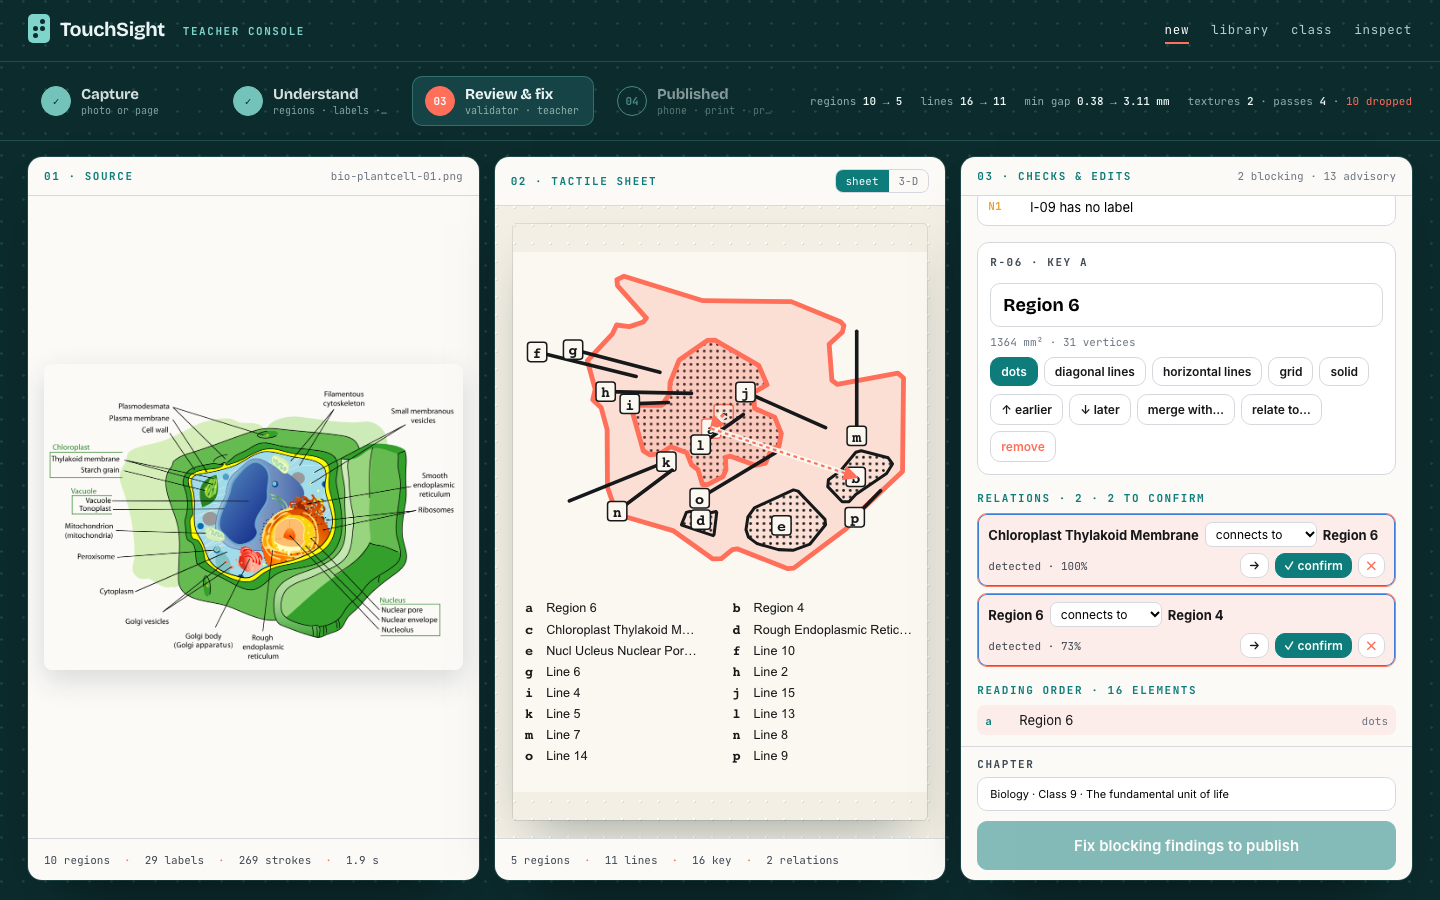
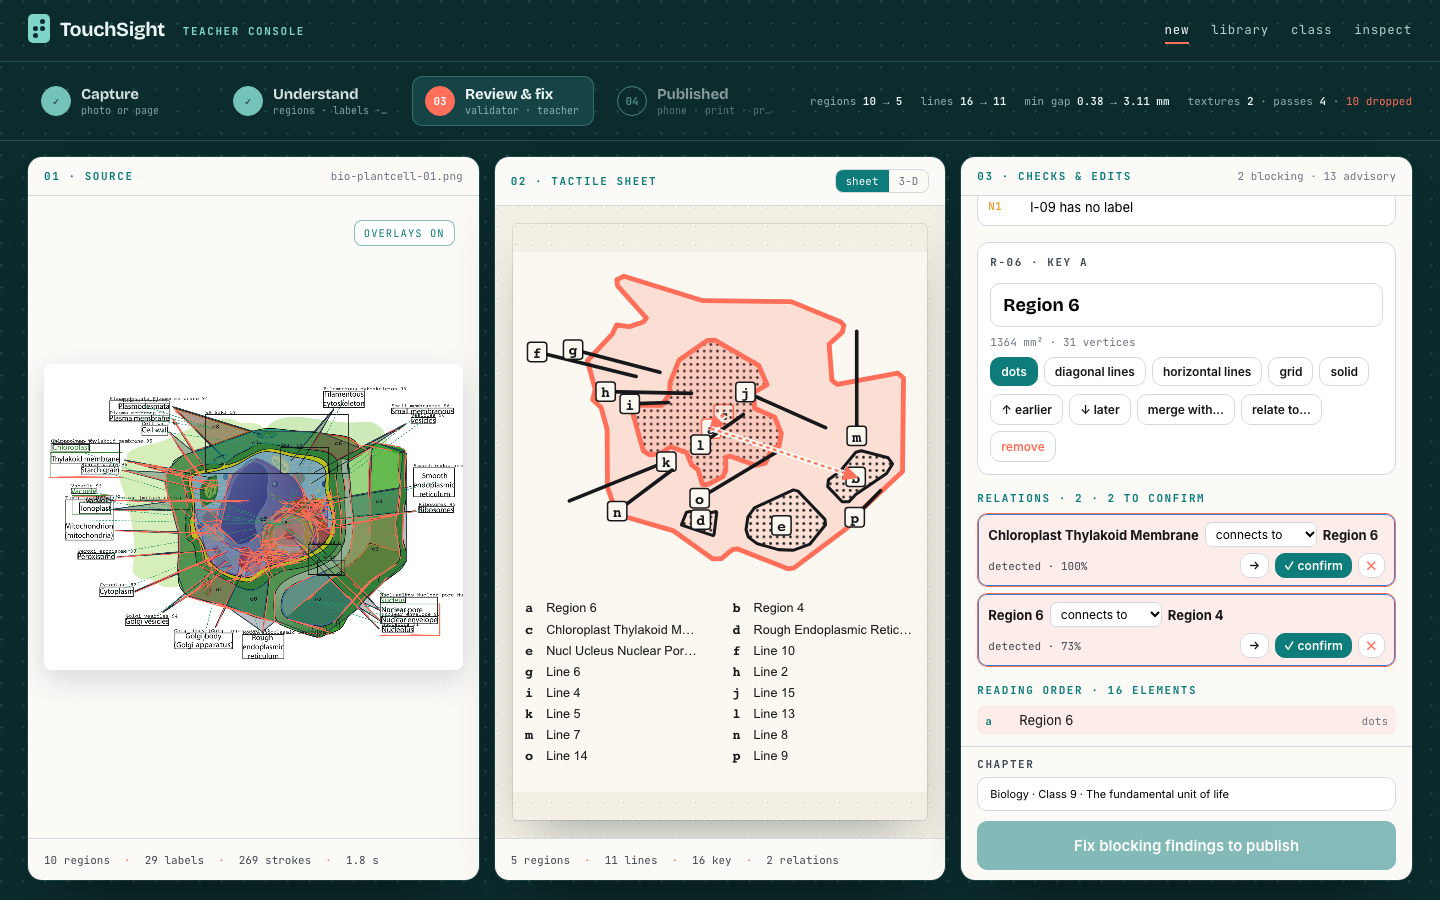
Understanding drawn over the photo, fitted relief, high-contrast mode

Changed region(s): [[0.0312, 0.4356, 0.3125, 0.7467], [0.25, 0.2489, 0.3125, 0.28], [0.0625, 0.6533, 0.0938, 0.6844]]

diff --git a/app/src/routes/teacher/Workbench.tsx b/app/src/routes/teacher/Workbench.tsx
@@ -1,6 +1,7 @@
 import { useEffect, useMemo, useRef, useState } from 'react'
 import { useNavigate, useParams } from 'react-router-dom'
-import { understand, draftTdm } from '../../pipeline/understand'
+import { understand, draftTdm, type Understanding } from '../../pipeline/understand'
+import { drawUnderstanding, SHOW_ALL } from '../../pipeline/overlay'
 import { simplify, type SimplifyReport } from '../../tdm/simplify'
 import { validate } from '../../tdm/validate'
 import { rename, remove, merge, setTexture, moveInOrder, markReviewed, addRelation, confirmRelation, removeRelation, setRelation } from '../../tdm/edit'
@@ -33,6 +34,10 @@ export function Workbench() {
   const [found, setFound] = useState<{ regions: number; labels: number; strokes: number; ms: number } | null>(null)
   const [phones, setPhones] = useState(0)
   const [view3d, setView3d] = useState(false)
+  const [u, setU] = useState<Understanding | null>(null)
+  const [overlay, setOverlay] = useState(true)
+  const [reveal, setReveal] = useState(1)
+  const overlayRef = useRef<HTMLCanvasElement>(null)
   useEffect(() => { if (step !== 'published') return; const t = setInterval(() => setPhones(classroom.phones), 600); return () => clearInterval(t) }, [step])
   const fileRef = useRef<HTMLInputElement>(null)
 
@@ -53,6 +58,10 @@ export function Workbench() {
     try {
       const u = await understand(file, setStage)
       setFound({ regions: u.regions.length, labels: u.labels.length, strokes: u.segments.length, ms: u.timings.total })
+      setU(u); setOverlay(true)
+      // what was read, drawn in over the photo while the solver works: regions, then labels, then strokes and links
+      setStage('what was read')
+      await new Promise<void>((done) => { const t0 = performance.now(); const tick = () => { const k = Math.min(1, (performance.now() - t0) / 1400); setReveal(k); if (k < 1) requestAnimationFrame(tick); else done() }; requestAnimationFrame(tick) })
       const id = (title || file.name.replace(/\.[^.]+$/, '')).toLowerCase().replace(/[^a-z0-9]+/g, '-').replace(/^-|-$/g, '') || `diagram-${Date.now()}`
       const { tdm: draft } = draftTdm(u, { id, title: title || file.name.replace(/\.[^.]+$/, ''), subject: chapter.split(' ')[0] || 'general', sourceKind: 'photo', file: file.name })
       setStage('redesigning for touch')
@@ -101,7 +110,13 @@ export function Workbench() {
   const STEPS: [Step, string, string][] = [['capture', 'Capture', 'photo or page'], ['understand', 'Understand', 'regions · labels · strokes'], ['review', 'Review & fix', 'validator · teacher'], ['published', 'Published', 'phone · print · projector']]
   const stepIdx = STEPS.findIndex((x) => x[0] === step)
   const blockingSel = highlight.length ? [...findings.blocking, ...findings.advisory].find((x) => selected && x.ids.includes(selected))?.at ?? null : null
-  const reset = () => { setStep('capture'); setTdm(null); setFile(null); setReport(null); setSelected(null); setFound(null); setImgUrl(null) }
+  const reset = () => { setStep('capture'); setTdm(null); setFile(null); setReport(null); setSelected(null); setFound(null); setImgUrl(null); setU(null) }
+  useEffect(() => {
+    const c = overlayRef.current
+    if (!c || !u) return
+    if (c.width !== u.prepared.width) { c.width = u.prepared.width; c.height = u.prepared.height }
+    drawUnderstanding(c.getContext('2d')!, u, overlay ? SHOW_ALL : { regions: false, labels: false, segments: false, links: false }, reveal)
+  }, [u, overlay, reveal, step])
 
   return (
     <div className="wb">
@@ -149,9 +164,10 @@ export function Workbench() {
                 <button className="btn primary wb-go" disabled={!file} onClick={run}>Understand this diagram →</button>
               </div>
             ) : (
-              <div className={`wb-photo ${step === 'understand' ? 'scanning' : ''}`}>
-                {imgUrl || file ? <img src={imgUrl ?? URL.createObjectURL(file!)} alt="" /> : <div className="wb-ghost mono">no source image stored</div>}
-                {step === 'understand' && <div className="wb-scan" aria-hidden />}
+              <div className={`wb-photo ${step === 'understand' && !u ? 'scanning' : ''}`}>
+                {u ? <canvas ref={overlayRef} className="wb-overlay" /> : imgUrl || file ? <img src={imgUrl ?? URL.createObjectURL(file!)} alt="" /> : <div className="wb-ghost mono">no source image stored</div>}
+                {step === 'understand' && !u && <div className="wb-scan" aria-hidden />}
+                {u && step !== 'understand' && <button className={`wb-ovl mono ${overlay ? 'on' : ''}`} onClick={() => setOverlay((v) => !v)}>{overlay ? 'overlays on' : 'overlays off'}</button>}
               </div>
             )}
           </div>

diff --git a/app/src/pipeline/overlay.ts b/app/src/pipeline/overlay.ts
@@ -1,0 +1,25 @@
+import type { Understanding } from './understand'
+
+/** What the pipeline read, drawn over the photo. Stages reveal in order so a watcher sees regions, then labels, then strokes, then which label names which region. */
+export const PALETTE = ['#0e7c7b', '#ff6f59', '#3d7dd8', '#e9a23b', '#2e9e6a', '#8e44ad', '#c0392b', '#16a085', '#d35400', '#2c3e50']
+export type OverlayShow = { regions: boolean; labels: boolean; segments: boolean; links: boolean }
+export const SHOW_ALL: OverlayShow = { regions: true, labels: true, segments: true, links: true }
+
+export function drawUnderstanding(ctx: CanvasRenderingContext2D, u: Understanding, show: OverlayShow, progress = 1) {
+  const { prepared } = u
+  ctx.clearRect(0, 0, prepared.width, prepared.height)
+  ctx.drawImage(prepared.canvas, 0, 0)
+  const scale = Math.max(1, prepared.width / 900)
+  ctx.lineWidth = 2 * scale
+  if (show.regions) u.regions.slice(0, Math.ceil(u.regions.length * progress)).forEach((r, i) => {
+    ctx.beginPath(); r.polygon.forEach((p, k) => (k ? ctx.lineTo(p[0], p[1]) : ctx.moveTo(p[0], p[1]))); ctx.closePath()
+    ctx.fillStyle = PALETTE[i % PALETTE.length] + '55'; ctx.fill()
+    ctx.strokeStyle = PALETTE[i % PALETTE.length]; ctx.stroke()
+    ctx.fillStyle = '#000'; ctx.font = `bold ${13 * scale}px JetBrains Mono, monospace`; ctx.fillText(r.id, r.centroid[0], r.centroid[1])
+  })
+  if (show.segments) { ctx.strokeStyle = '#ff6f59'; ctx.lineWidth = 2 * scale; u.segments.slice(0, Math.ceil(u.segments.length * progress)).forEach((s) => { ctx.beginPath(); ctx.moveTo(s.a[0], s.a[1]); ctx.lineTo(s.b[0], s.b[1]); ctx.stroke() }) }
+  if (show.labels) { ctx.strokeStyle = '#17181a'; ctx.lineWidth = 1.5 * scale; u.labels.slice(0, Math.ceil(u.labels.length * progress)).forEach((l) => { ctx.strokeRect(l.bbox.x, l.bbox.y, l.bbox.w, l.bbox.h); ctx.fillStyle = '#17181a'; ctx.font = `${11 * scale}px JetBrains Mono, monospace`; ctx.fillText(`${l.text} ${Math.round(l.confidence * 100)}`, l.bbox.x, l.bbox.y - 3) }) }
+  if (show.links) { ctx.strokeStyle = '#2e9e6a'; ctx.setLineDash([4 * scale, 3 * scale]); ctx.lineWidth = 1.5 * scale
+    u.associations.slice(0, Math.ceil(u.associations.length * progress)).forEach((a) => { if (!a.regionId) return; const l = u.labels.find((x) => x.id === a.labelId)!; const r = u.regions.find((x) => x.id === a.regionId)!; ctx.beginPath(); ctx.moveTo(l.centre[0], l.centre[1]); ctx.lineTo(r.centroid[0], r.centroid[1]); ctx.stroke() })
+    ctx.setLineDash([]) }
+}

diff --git a/app/src/routes/teacher/Understand.tsx b/app/src/routes/teacher/Understand.tsx
@@ -2,8 +2,8 @@ import { useEffect, useRef, useState } from 'react'
 import { understand, draftTdm, type Understanding } from '../../pipeline/understand'
 import { serializeTdm } from '../../tdm/io'
 import { saveDiagram, saveImage } from '../../store/db'
+import { drawUnderstanding } from '../../pipeline/overlay'
 
-const PALETTE = ['#0e7c7b', '#ff6f59', '#3d7dd8', '#e9a23b', '#2e9e6a', '#8e44ad', '#c0392b', '#16a085', '#d35400', '#2c3e50']
 
 /** Stage 1 inspection: run the pipeline on an image and draw what it found. */
 export function Understand() {
@@ -29,22 +29,8 @@ export function Understand() {
   useEffect(() => {
     const c = canvasRef.current
     if (!c || !u) return
-    const { prepared } = u
-    c.width = prepared.width; c.height = prepared.height
-    const ctx = c.getContext('2d')!
-    ctx.drawImage(prepared.canvas, 0, 0)
-    ctx.lineWidth = 2
-    if (show.regions) u.regions.forEach((r, i) => {
-      ctx.beginPath(); r.polygon.forEach((p, k) => (k ? ctx.lineTo(p[0], p[1]) : ctx.moveTo(p[0], p[1]))); ctx.closePath()
-      ctx.fillStyle = PALETTE[i % PALETTE.length] + '55'; ctx.fill()
-      ctx.strokeStyle = PALETTE[i % PALETTE.length]; ctx.stroke()
-      ctx.fillStyle = '#000'; ctx.font = 'bold 13px monospace'; ctx.fillText(r.id, r.centroid[0], r.centroid[1])
-    })
-    if (show.segments) { ctx.strokeStyle = '#ff6f59'; ctx.lineWidth = 2; u.segments.forEach((s) => { ctx.beginPath(); ctx.moveTo(s.a[0], s.a[1]); ctx.lineTo(s.b[0], s.b[1]); ctx.stroke() }) }
-    if (show.labels) { ctx.strokeStyle = '#17181a'; ctx.lineWidth = 1.5; u.labels.forEach((l) => { ctx.strokeRect(l.bbox.x, l.bbox.y, l.bbox.w, l.bbox.h); ctx.fillStyle = '#17181a'; ctx.font = '11px monospace'; ctx.fillText(`${l.text} ${Math.round(l.confidence * 100)}`, l.bbox.x, l.bbox.y - 3) }) }
-    if (show.links) { ctx.strokeStyle = '#2e9e6a'; ctx.setLineDash([4, 3]); ctx.lineWidth = 1.5
-      u.associations.forEach((a) => { if (!a.regionId) return; const l = u.labels.find((x) => x.id === a.labelId)!; const r = u.regions.find((x) => x.id === a.regionId)!; ctx.beginPath(); ctx.moveTo(l.centre[0], l.centre[1]); ctx.lineTo(r.centroid[0], r.centroid[1]); ctx.stroke() })
-      ctx.setLineDash([]) }
+    c.width = u.prepared.width; c.height = u.prepared.height
+    drawUnderstanding(c.getContext('2d')!, u, show)
   }, [u, show])
 
   async function saveDraft() {

diff --git a/app/src/components/ReliefViewer.tsx b/app/src/components/ReliefViewer.tsx
@@ -30,7 +30,9 @@ export function ReliefViewer({ tdm, braille, className = '', autoRotate = true, 
       const w = el.clientWidth || 600, h = el.clientHeight || 420
       const cam = new THREE.PerspectiveCamera(32, w / h, 1, 2000)
       const span = Math.max(size.x, size.y)
-      cam.position.set(span * 0.55, -span * 0.95, span * 0.9); cam.up.set(0, 0, 1); cam.lookAt(0, 0, 0)
+      const fit = Math.max(size.y, size.x / cam.aspect) * 1.15
+      const dist = (fit / 2) / Math.tan((cam.fov * Math.PI) / 360)
+      cam.position.copy(new THREE.Vector3(0.42, -0.78, 0.62).normalize().multiplyScalar(dist)); cam.up.set(0, 0, 1); cam.lookAt(0, 0, 0)
       const renderer = new THREE.WebGLRenderer({ antialias: true, alpha: true })
       renderer.setPixelRatio(Math.min(2, window.devicePixelRatio || 1)); renderer.setSize(w, h); renderer.shadowMap.enabled = true
       el.appendChild(renderer.domElement)
@@ -47,7 +49,7 @@ export function ReliefViewer({ tdm, braille, className = '', autoRotate = true, 
       const rim = new THREE.DirectionalLight(0x7fd4cb, 0.5); rim.position.set(span, span, span * 0.3); scene.add(rim)
 
       const controls = new OrbitControls(cam, renderer.domElement)
-      controls.enableDamping = true; controls.autoRotate = autoRotate; controls.autoRotateSpeed = 1.2; controls.maxPolarAngle = Math.PI * 0.49; controls.minDistance = span * 0.5; controls.maxDistance = span * 3
+      controls.enableDamping = true; controls.autoRotate = autoRotate; controls.autoRotateSpeed = 1.2; controls.maxPolarAngle = Math.PI * 0.49; controls.minDistance = span * 0.4; controls.maxDistance = dist * 2.2
       const onResize = () => { const w2 = el.clientWidth, h2 = el.clientHeight; if (!w2 || !h2) return; cam.aspect = w2 / h2; cam.updateProjectionMatrix(); renderer.setSize(w2, h2) }
       const ro = new ResizeObserver(onResize); ro.observe(el)
       const loop = () => { if (!alive) return; controls.update(); renderer.render(scene, cam); raf = requestAnimationFrame(loop) }

diff --git a/app/src/routes/student/Library.tsx b/app/src/routes/student/Library.tsx
@@ -15,6 +15,7 @@ import { classroom, studentProfile, setStudentProfile, type Incoming } from '../
 import { useTouchToAct, introSeen, markIntroSeen, speakFirstEnabled, setSpeakFirst } from '../../student/a11y'
 import { stopSpeech } from '../../device/speech'
 import { sound } from '../../device/sound'
+import { contrastEnabled, setContrast } from '../../student/a11y'
 
 type Score = { found: number; asked: number }
 
@@ -36,6 +37,7 @@ export function StudentLibrary() {
   const [intro, setIntro] = useState<'hidden' | 'waiting' | 'spoken'>(() => (introSeen() ? 'hidden' : 'waiting'))
   const [speakFirst, setSF] = useState(speakFirstEnabled)
   const [snd, setSnd] = useState(sound.state.on)
+  const [hc, setHc] = useState(contrastEnabled)
   const [, bump] = useState(0)
   const say = (text: string) => { stopSpeech(); speak(text, lang) }
   useEffect(() => { const t = setInterval(() => setLink(classroom.state), 700); return () => clearInterval(t) }, [])
@@ -160,6 +162,7 @@ export function StudentLibrary() {
       <div className="st-settings" role="group">
         <button className={speakFirst ? 'on' : ''} aria-pressed={speakFirst} onClick={() => { const v = !speakFirst; setSpeakFirst(v); setSF(v); bump((n) => n + 1); say(v ? s.speakFirstOn : s.speakFirstOff) }}>{s.speakFirst}</button>
         <button className={snd ? 'on' : ''} aria-pressed={snd} onClick={() => { const v = !snd; sound.setOn(v); setSnd(v); say(v ? s.soundOn : s.soundOff) }}>{s.sound}</button>
+        <button className={hc ? 'on' : ''} aria-pressed={hc} onClick={() => { const v = !hc; setContrast(v); setHc(v); say(v ? s.contrastOn : s.contrastOff) }}>{s.contrast}</button>
       </div>
 
       <section className="st-section">

diff --git a/app/src/routes/student/student.css b/app/src/routes/student/student.css
@@ -87,3 +87,12 @@
 .st-modes button.armed, .st-actions button.armed { outline: 3px solid var(--coral); outline-offset: 2px; }
 .st-explore { touch-action: pan-y; }
 .st-thumb svg { pointer-events: none; }
+
+/* low vision: high contrast, larger type, thicker lines */
+html.hc .st { background: #000; color: #ffe600; font-size: 112%; }
+html.hc .st-card, html.hc .st-key li, html.hc .st-pick-card, html.hc .st-me, html.hc .st-join, html.hc .st-settings button, html.hc .st-actions button, html.hc .st-btn-link, html.hc .st-modes button, html.hc .st-langs { background: #000; border-color: #ffe600; color: #ffe600; }
+html.hc .st-langs button.on, html.hc .st-modes button.on, html.hc .st-settings button.on, html.hc .st-actions button.primary, html.hc .st-pick-card.armed { background: #ffe600; color: #000; border-color: #ffe600; }
+html.hc .kicker, html.hc .st-caption, html.hc .st-card-body .mono, html.hc .st-key .feel, html.hc .st-key .ref, html.hc .st-title .mono, html.hc .st-pick-q, html.hc .st-empty { color: #fff; }
+html.hc .st-now { font-size: 30px; color: #ffe600; } html.hc .st-card-body b { font-size: 19px; } html.hc .st-key .name { font-size: 19px; } html.hc .st-key .cells { font-size: 30px; }
+html.hc .st-canvas { background: #fff; outline: 3px solid #ffe600; outline-offset: -3px; } html.hc .st-canvas svg { filter: contrast(1.35); } html.hc .st-canvas svg path, html.hc .st-canvas svg text { stroke-width: 1.8px; }
+html.hc .st-card.armed, html.hc .st-import.armed, html.hc .st-modes button.armed, html.hc .st-actions button.armed { outline-color: #fff; }

diff --git a/app/src/student/a11y.ts b/app/src/student/a11y.ts
@@ -21,6 +21,10 @@ export const lastPointerType = () => lastPointer
 
 export function speakFirstEnabled(): boolean { try { return localStorage.getItem(SPEAK_FIRST_KEY) !== 'off' } catch { return true } }
 export function setSpeakFirst(on: boolean) { try { localStorage.setItem(SPEAK_FIRST_KEY, on ? 'on' : 'off') } catch { /* ignore */ } }
+const CONTRAST_KEY = 'touchsight-contrast'
+export function contrastEnabled(): boolean { try { return localStorage.getItem(CONTRAST_KEY) === 'on' } catch { return false } }
+export function setContrast(on: boolean) { try { localStorage.setItem(CONTRAST_KEY, on ? 'on' : 'off') } catch { /* ignore */ } document.documentElement.classList.toggle('hc', on) }
+if (typeof document !== 'undefined' && contrastEnabled()) document.documentElement.classList.add('hc')
 export function introSeen(): boolean { try { return localStorage.getItem(INTRO_KEY) === '1' } catch { return true } }
 export function markIntroSeen() { try { localStorage.setItem(INTRO_KEY, '1') } catch { /* ignore */ } }
 

diff --git a/app/src/routes/teacher/teacher.css b/app/src/routes/teacher/teacher.css
@@ -172,3 +172,7 @@
 .rv { display: grid; grid-template-rows: minmax(0, 1fr) auto; height: 100%; min-height: 0; }
 .rv-stage { min-height: 0; cursor: grab; } .rv-stage canvas { display: block; }
 .rv-cap { display: flex; justify-content: space-between; gap: 12px; padding: 8px 14px; font-size: 10.5px; color: #8fb0ae; border-top: 1px solid rgba(127,212,203,.2); background: rgba(12,43,45,.6); }
+
+.wb-overlay { max-width: 100%; max-height: 100%; width: auto; height: auto; border-radius: 8px; box-shadow: 0 10px 30px rgba(12,43,45,.15); }
+.wb-ovl { position: absolute; right: 24px; top: 24px; border: 1px solid var(--line); background: #fff; color: var(--muted); font-size: 10.5px; letter-spacing: .1em; text-transform: uppercase; padding: 5px 9px; border-radius: 8px; cursor: pointer; }
+.wb-ovl.on { color: var(--teal); border-color: rgba(14,124,123,.5); }
